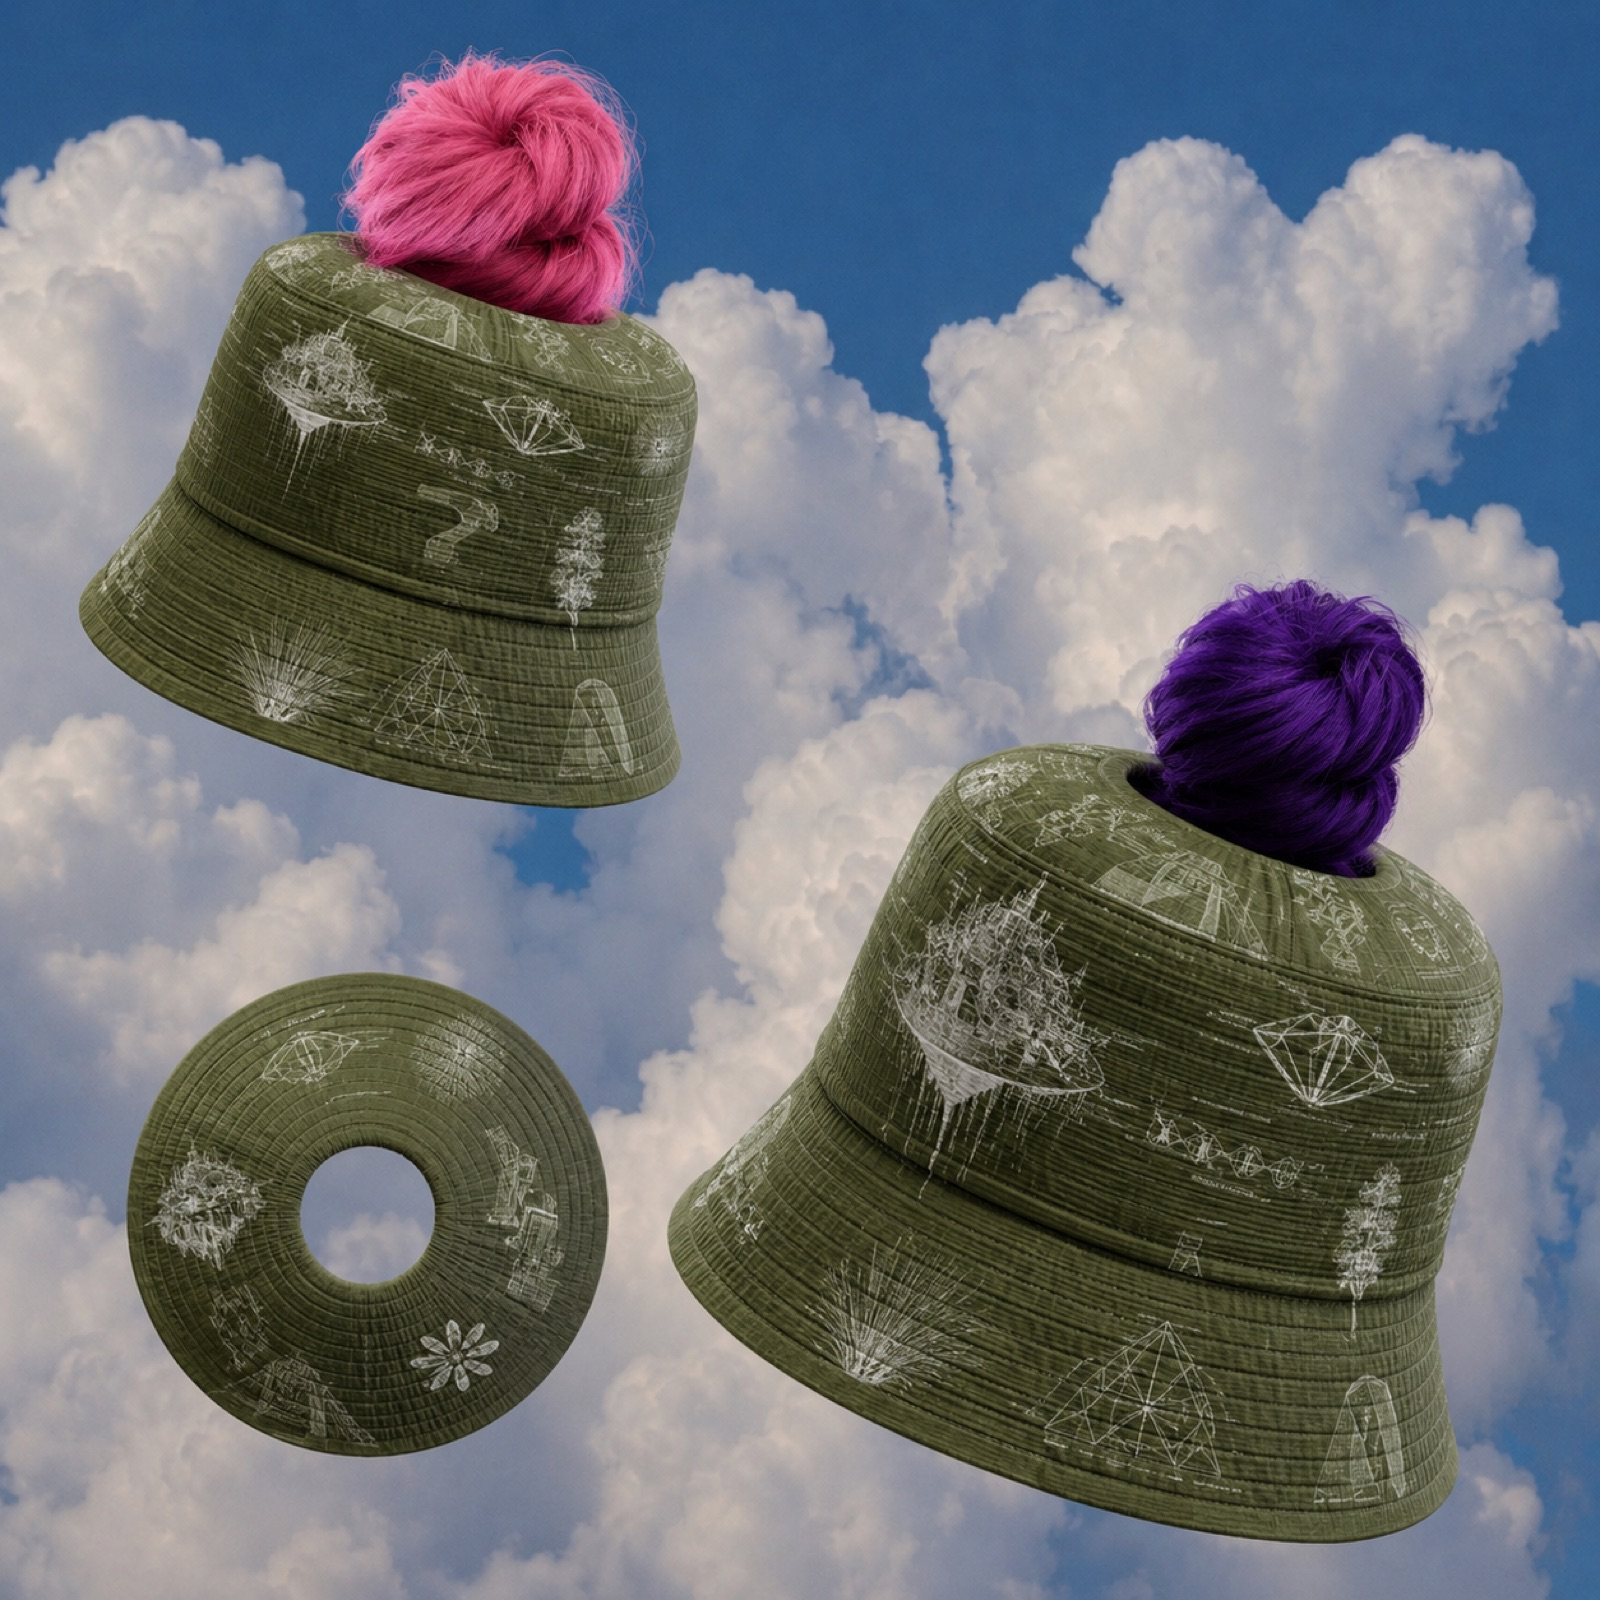
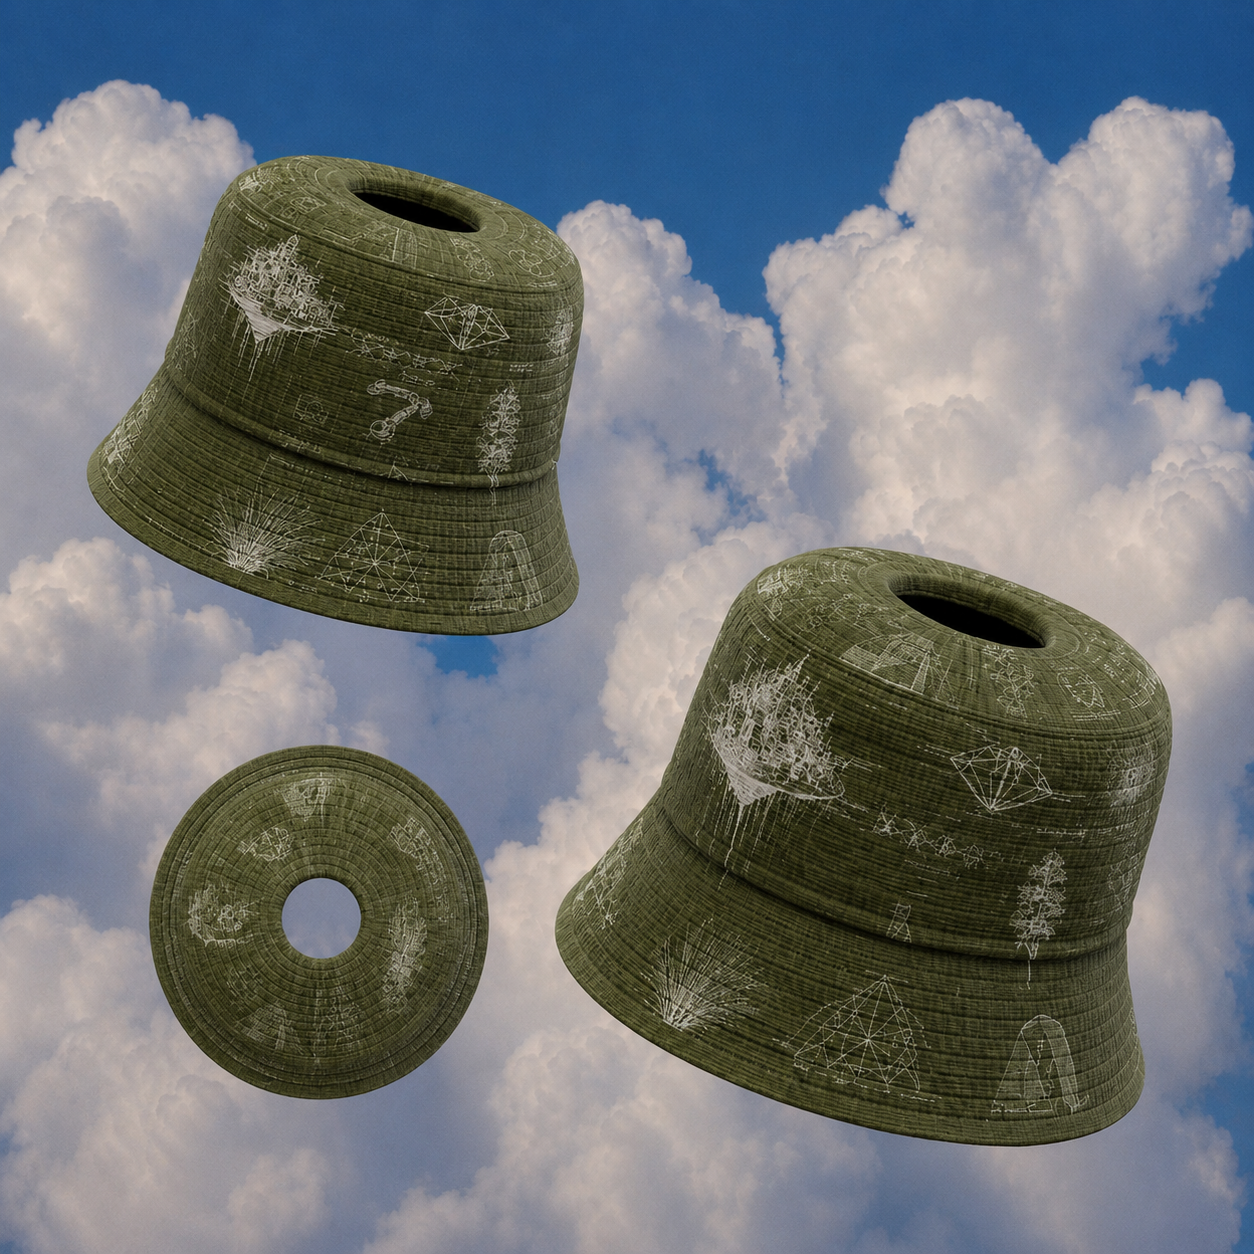
Replace content with updated HolyHats page from holyhat repo

diff --git a/index.html b/index.html
@@ -111,12 +111,25 @@ figure img{border-radius:16px;box-shadow:0 18px 50px rgba(21,18,11,.2)}
 .bits-foot{font-family:'Fraunces',serif;font-style:italic;font-size:clamp(20px,2.6vw,32px);text-align:center;margin-top:48px}
 .bits-foot b{color:#e2b15f;font-style:normal}
 @media(max-width:900px){.bits-grid{grid-template-columns:1fr;gap:30px}.bits-mid{order:-1;max-width:440px;margin:0 auto}}
+/* full-screen wide banner with floating text */
+.banner{position:relative;width:100vw;left:50%;margin-left:-50vw;min-height:100svh;
+  display:flex;align-items:center;justify-content:center;text-align:center;padding:0;border-top:none;
+  background-image:url('img/banner-wide.jpg');background-size:cover;background-position:center;background-attachment:fixed}
+.banner:before{content:'';position:absolute;inset:0;background:linear-gradient(180deg,rgba(21,18,11,.32),rgba(21,18,11,.12) 40%,rgba(21,18,11,.42))}
+.banner .bannertext{position:relative;z-index:2;max-width:820px;padding:0 28px;color:#fff}
+.banner .bk{font-size:13px;letter-spacing:.28em;text-transform:uppercase;font-weight:700;color:#fff;opacity:.9}
+.banner h2{font-family:'Fraunces',serif;font-weight:900;font-size:clamp(40px,7vw,96px);line-height:.95;letter-spacing:-.02em;margin:18px 0 0;text-shadow:0 2px 30px rgba(0,0,0,.45)}
+.banner h2 em{font-style:italic;font-weight:500;color:#f0cfe2}
+.banner p{font-family:'Fraunces',serif;font-style:italic;font-size:clamp(20px,2.6vw,30px);margin-top:22px;color:#f3ede2;text-shadow:0 2px 20px rgba(0,0,0,.5)}
+@media(max-width:820px){.banner{background-attachment:scroll;min-height:78svh}}
+
 /* gallery */
 .gal{columns:3;column-gap:16px;margin-top:42px}
 @media(max-width:860px){.gal{columns:2}}
 @media(max-width:520px){.gal{columns:1}}
 .gal figure{break-inside:avoid;margin:0 0 16px;position:relative}
 .gal img{width:100%;border-radius:14px}
+.gal figure.circle img{border-radius:50%;aspect-ratio:1;object-fit:cover}
 .gal figcaption{position:absolute;left:12px;bottom:12px;right:12px;color:#fff;font-size:13px;font-weight:500;text-shadow:0 1px 8px rgba(0,0,0,.7);letter-spacing:.02em}
 
 /* manifesto */
@@ -160,13 +173,13 @@ footer a{color:#e0b7d1;text-decoration:none}
     <div class="herotext">
       <div class="tag">Edge Esmeralda · made from ocean nets</div>
       <h1>Holy<em>Hats</em></h1>
-      <div class="sub">A hole new way to wear your hair &amp; tan your top.</div>
+      <div class="sub">The world&rsquo;s first carbon-sequestering bucket hat with a hole.</div>
       <div class="row">
         <a class="btn btn-dark" href="#pitch">The pitch ↓</a>
         <a class="btn btn-out" href="#wild">See them in the wild</a>
       </div>
     </div>
-    <div class="heroimg"><img src="img/hero.jpg" alt="HolyHats floating in the clouds, top-knots out"></div>
+    <div class="heroimg"><img src="img/top-square.jpg" alt="The HolyHats lineup floating in the clouds — Edge blueprint olive plus crochet colorways"></div>
   </div>
   <div class="scrollcue">scroll · ocean net in · top-knot out</div>
 </header>
@@ -176,7 +189,7 @@ footer a{color:#e0b7d1;text-decoration:none}
     <p class="lede reveal">Ever wanted to wear your <b>fashionable top-knot up</b>, get <em>real</em> sun protection, but <b>not</b> look like a granny at a casino in a foam visor? For all of human history you had to pick two. <em>HolyHats lets you have it all.</em></p>
     <div class="two" style="margin-top:60px">
       <div>
-        <p class="p reveal">Here's what it is: a bucket hat with <strong>a hole in the top.</strong> Your top-knot — your bun, your buns — goes <em>through</em> the hole and out the crown. Hair's up, face is shaded, and you look like the <strong>hippest person in Berlin.</strong> No visor. No granny. No compromise.</p>
+        <p class="p reveal">Here's what it is: a bucket hat with <strong>a hole in the top.</strong> Your top-knot — your bun, your buns — goes <em>through</em> the hole and out the crown. Hair's up, face is shaded, and you look like the <strong>hippest person in town.</strong> No visor. No granny. No compromise.</p>
         <p class="p reveal">You might think "make the hole big." Wrong. The hole is <strong>small on purpose</strong> — when it's snug around your bun, <strong>your own hair holds the hat down.</strong> No chin strap garroting you under the jaw. A gust hits, and where a normal hat sails into the sea, your HolyHat <em>stays put</em> — anchored by the magnificent bun God gave you.</p>
       </div>
       <div>
@@ -198,6 +211,14 @@ footer a{color:#e0b7d1;text-decoration:none}
       <div class="card dream reveal"><div class="ed">Edition Three · the dream</div><h3>The Space Bun Hat</h3><p><em>Two</em> holes. <em>Two</em> buns. Double the anchoring, double the halo, double the glory. We're not there yet. But we're going.</p></div>
       <div class="card cult reveal"><div class="ed">The cult favorite</div><h3>The Glory Hat</h3><p>The colloquial name for the hole-in-the-top situation. There's a hole. It's glorious. People named it themselves. We simply allowed it.</p></div>
     </div>
+  </div>
+</section>
+
+<section class="banner" aria-label="The HolyHats lineup in the clouds">
+  <div class="bannertext reveal">
+    <div class="bk">Olive blueprint · crochet colorways</div>
+    <h2>A hole new way to wear your hair &amp; <em>tan your top.</em></h2>
+    <p>Pulled from the sea, floating in the clouds — every head deserves a little divine airflow.</p>
   </div>
 </section>
 
@@ -223,9 +244,9 @@ footer a{color:#e0b7d1;text-decoration:none}
     <div>
       <div class="skick kick reveal">The genuinely serious part</div>
       <h2 class="shead reveal">You're pulling nets out of the sea &amp; <em>wearing them.</em></h2>
-      <p class="p reveal">Made from <strong>RTV fabric</strong> — Return to Vendor nylon, spun from <strong>recycled ocean fishing nets</strong>, which are nearly half of all ocean plastic by weight. Infinitely recyclable, PFAS-free, ~70% less CO₂ than virgin nylon, made-to-order so there's zero deadstock.</p>
+      <p class="p reveal">I'm working with <strong>Return to Vendor (RTV)</strong> — their nylon is spun from <strong>recycled ocean fishing nets</strong> (~46% of ocean plastic by weight). Breakthrough chemistry <strong>depolymerises and rebuilds</strong> that nylon over and over with almost no yield lost — truly infinitely recyclable, PFAS-free, ~70% lower CO₂, and at <strong>price parity</strong> with virgin. Want a new design later? We grind it up and make you a new one. You're quite literally <strong>pulling nets out of the sea and wearing them on your head.</strong></p>
     </div>
-    <figure class="reveal"><img src="img/product-grey.jpg" alt="HolyHats in ocean-net nylon"></figure>
+    <figure class="reveal"><img src="img/product-black.jpg" alt="HolyHats in charcoal ocean-net nylon, top-knots out"></figure>
   </div>
   <div class="wrap">
     <div class="stats">
@@ -243,7 +264,6 @@ footer a{color:#e0b7d1;text-decoration:none}
     <div class="bits-tag reveal">a hole new way to wear your hair &amp; tan your top</div>
     <div class="bits-grid">
       <div class="bits-col reveal">
-        <div class="bits-kick">clearly joking, lovingly</div>
         <h3 class="bits-h holy">The Holy Bits</h3>
         <ul class="bits-list">
           <li><strong>Gloryhats.</strong> Yes — there's a hole in the top. It's glorious.</li>
@@ -255,7 +275,6 @@ footer a{color:#e0b7d1;text-decoration:none}
       </div>
       <div class="bits-mid reveal"><img src="img/hero.jpg" alt="HolyHats in the clouds"></div>
       <div class="bits-col honest reveal">
-        <div class="bits-kick olive">true, not joking</div>
         <h3 class="bits-h honest">The Honest Bits</h3>
         <ul class="bits-list">
           <li>Made from <strong>recycled ocean fishing nets</strong> — ~46% of ocean plastic, via RTV's chemistry.</li>
@@ -277,16 +296,16 @@ footer a{color:#e0b7d1;text-decoration:none}
       <figure><img src="img/wild-archery.jpg" alt="Drawing a bow, top-knot out"><figcaption>Load-bearing bun, hands free</figcaption></figure>
       <figure><img src="img/wild-1.jpg" alt="The Edge crew in hats"><figcaption>The Edge crew — top-knots out</figcaption></figure>
       <figure><img src="img/wild-2.jpg" alt="Handmade HolyHat prototype"><figcaption>The handmade prototype that started it</figcaption></figure>
-      <figure><img src="img/wild-3.jpg" alt="HolyHat in the field"><figcaption>Shaded &amp; synthesizing in the field</figcaption></figure>
       <figure><img src="img/hero.jpg" alt="HolyHats in the clouds"><figcaption>Made-to-order, RTV ocean-net nylon</figcaption></figure>
+      <figure class="circle"><img src="img/patch.jpg" alt="HolyHats embroidered patch"></figure>
     </div>
   </div>
 </section>
 
 <section class="manifesto">
   <div class="wrap">
-    <p class="m reveal">We envision a world where <em>every head is cool, breezy, shaded, anointed, and quietly cleaning the ocean</em> — where "there's a hole in your hat" stops being an insult and becomes the highest compliment one human can pay another.</p>
-    <p class="final reveal">HolyHats — a hole new way to wear your hair and tan your top.</p>
+    <p class="m reveal">We envision a world where <em>every head is cool, breezy, shaded, blessed, and quietly cleaning the ocean</em> — where "there's a hole in your hat" stops being an insult and becomes the highest compliment one human can pay another.</p>
+    <p class="final reveal">HolyHats — great for the bald and hairy alike. A hole new way to wear your hair and tan your top.</p>
     <div class="row" style="justify-content:center;margin-top:40px">
       <a class="btn btn-dark" style="background:var(--plum)" href="https://artizen.fund/index/p/holyhats-village-bucket-hats-made-from-ocean-fishnet" target="_blank" rel="noopener">Back HolyHats on Artizen ↗</a>
     </div>